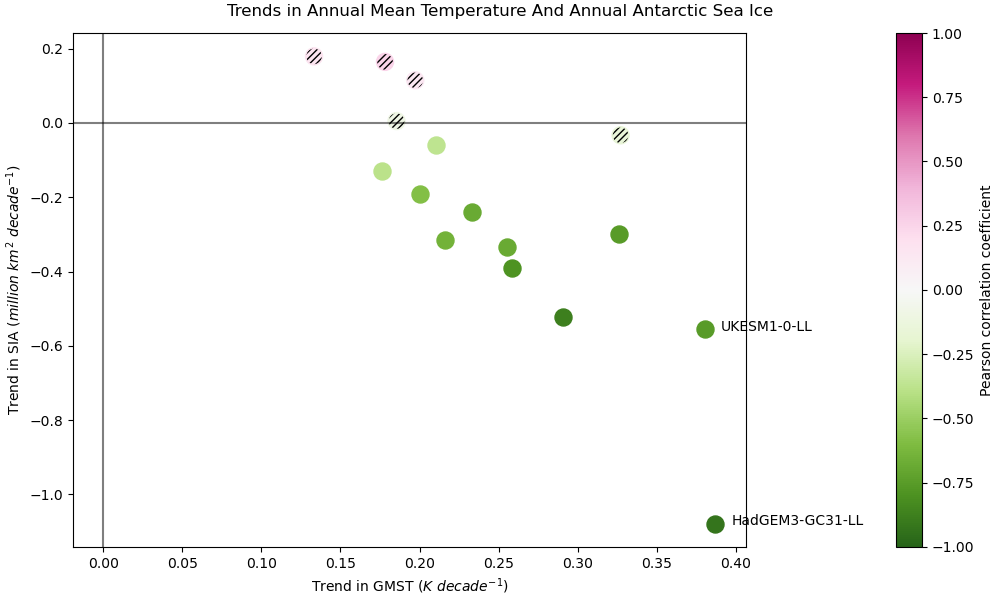
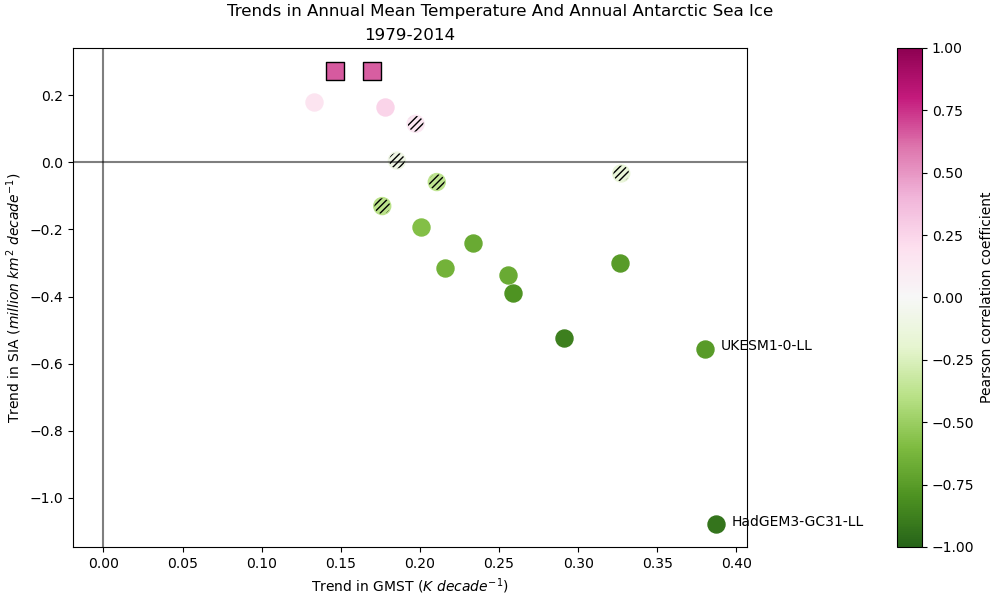
Documentation

diff --git a/esmvaltool/diag_scripts/seaice/seaice_sensitivity.py b/esmvaltool/diag_scripts/seaice/seaice_sensitivity.py
@@ -464,6 +464,7 @@ def roach_style_plot_from_df(df, cfg):
 
     # Only plot the entire data period in this style
     data_period = retrieve_periods(cfg).data_period
+    ax.set_title(data_period, loc="center")
 
     # Iterate over the values in the dataframe
     for dataset, _ in df.iterrows():
@@ -556,8 +557,9 @@ def notz_style_plot_from_df(df, cfg):
         ]
         # Also changes caption
         caption = (
-            "Sensitivity of sea ice area to annual mean global warming."
-            f"\nMean (dashed), standard deviation (shaded) and plausible (dotted) values from {obs_period}."
+            "Sensitivity of sea ice area to annual mean global warming.\n"
+            "Mean (dashed), standard deviation (shaded) and plausible (dotted)"
+            f"values from {obs_period} are shown in grey."
         )
 
     # Set up the figure

diff --git a/doc/sphinx/source/recipes/recipe_seaice_sensitivity.rst b/doc/sphinx/source/recipes/recipe_seaice_sensitivity.rst
@@ -71,6 +71,8 @@ Example plots
    :width:   8cm
 
    Plot of sensitivity of northern hemisphere sea ice area loss (millions of square kilometres) in the month of September to the annual mean global temperature change (K).
+   Models are shown on the left in blue, and the relationships between pairs of observational datasets are shown on the right in orange.
+   The shading around the position of each observational pair shows the standard error as computed by :func:`scipy.stats.linregress`.
 
    The dashed black line shows the observational mean, the shaded area denotes one one standard deviation of observational uncertainty, as calculated by Notz et al (2020).
    The dotted grey lines reflect Notz et al estimate of a plausible range incorporating both internal variability and observational uncertainty.
@@ -89,4 +91,5 @@ plausible  1.28 million km2 K-1
 
    Plot of the trend of annually averaged southern hemisphere sea ice area (millions of square kilometres) over time against the trend of annually and globally averaged air temperature near the surface (degrees Kelvin) over time. The values plotted are 10 times the annual trend, which was calculated using :func:`scipy.stats.linregress`, for consistency with the decadal values used in the published plot.
 
-   The colour of each point is determined by the Pearson correlation coefficient between the two variables, and the hatching indicates that the sea ice area trend has a ``p_value`` greater than 0.05, both calculated using :func:`scipy.stats.linregress`.
+   The colour of each point is determined by the Pearson correlation coefficient between the two variables, and the hatching indicates that the trend of sea ice area over time has a ``p_value`` greater than 0.05, both calculated using :func:`scipy.stats.linregress`.
+   Models are shown as circles and observational datasets are shown as squares.